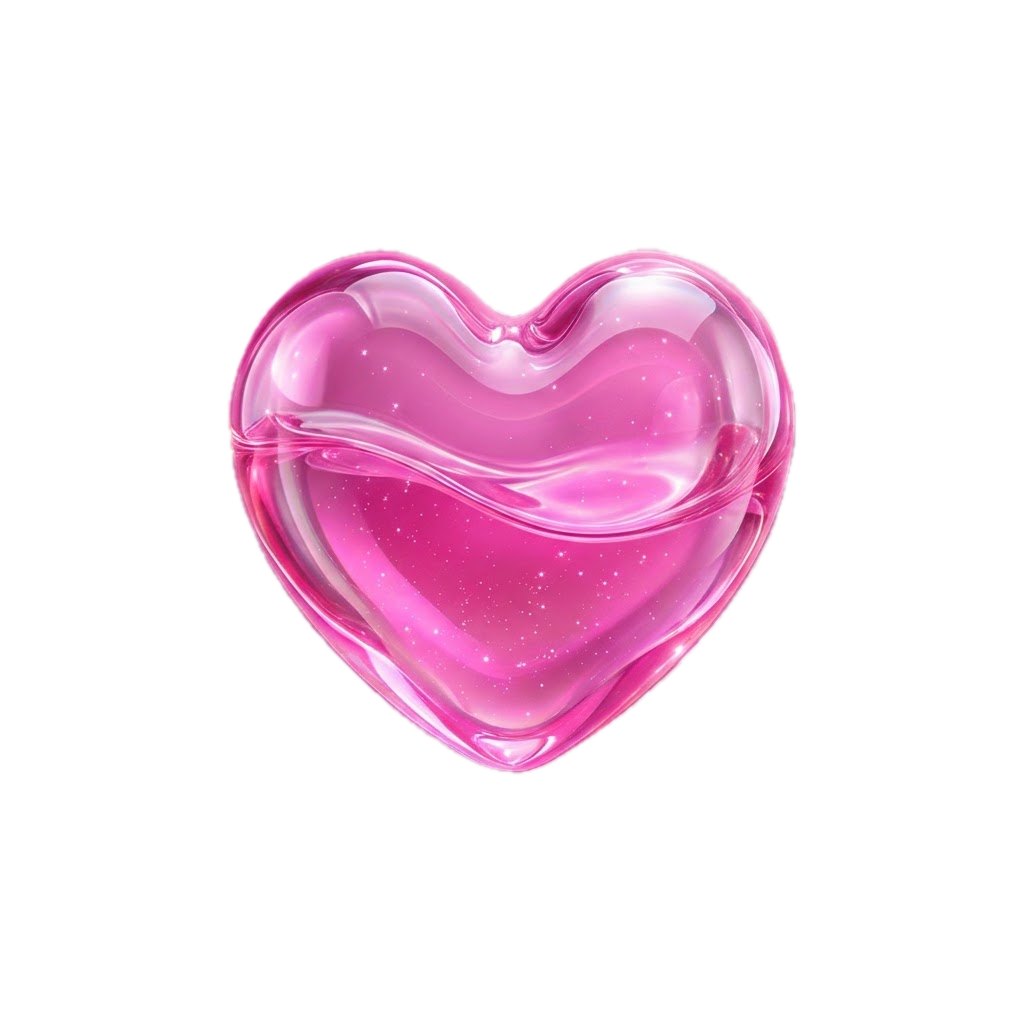
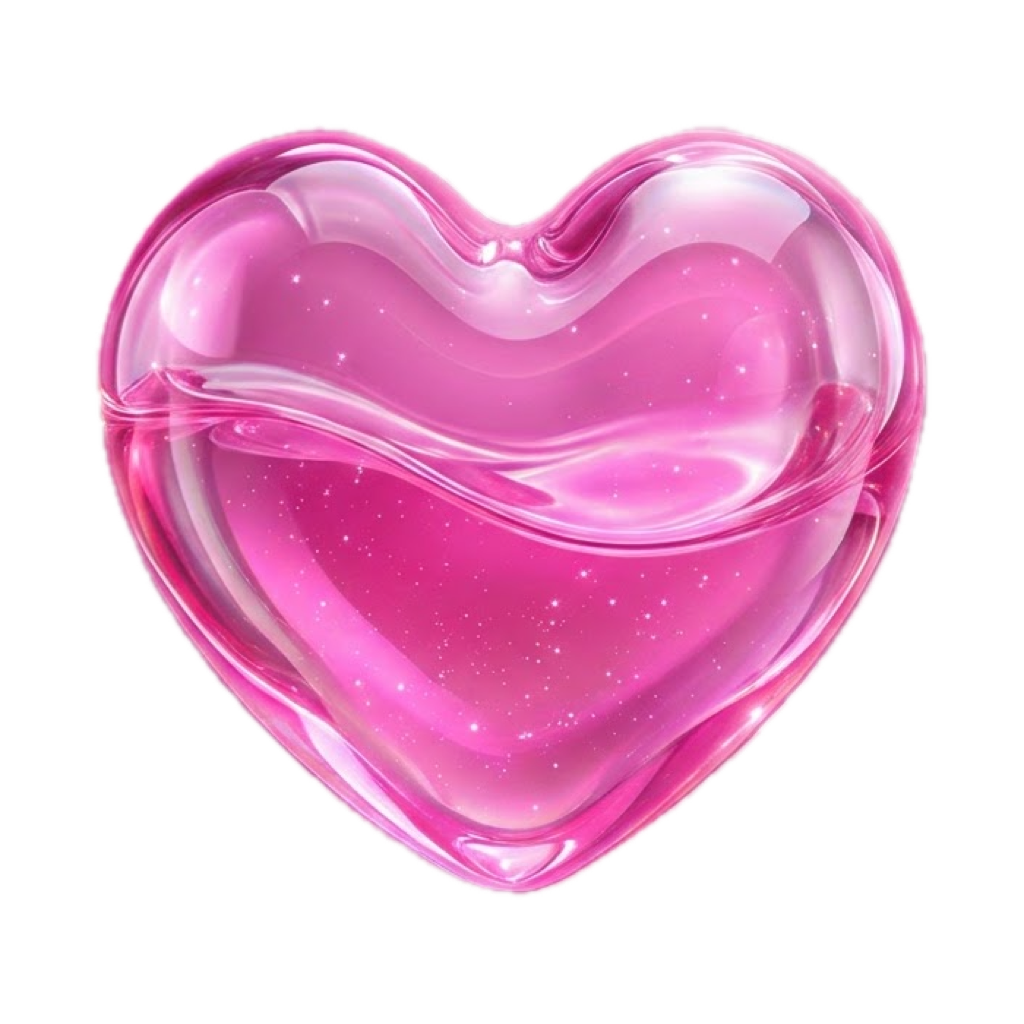
iPhone ve PWA ikonundaki kalp boyutu büyütüldü

diff --git a/app/manifest.ts b/app/manifest.ts
@@ -12,8 +12,8 @@ export default function manifest(): MetadataRoute.Manifest {
     theme_color: '#1c1c1e',
     lang: 'tr',
     icons: [
-      { src: '/icon-512-v2.png', sizes: '512x512', type: 'image/png', purpose: 'any' },
-      { src: '/icon-512-v2.png', sizes: '512x512', type: 'image/png', purpose: 'maskable' },
+      { src: '/icon-512-v3.png', sizes: '512x512', type: 'image/png', purpose: 'any' },
+      { src: '/icon-512-v3.png', sizes: '512x512', type: 'image/png', purpose: 'maskable' },
     ],
   }
 }

diff --git a/public/sw.js b/public/sw.js
@@ -1,4 +1,4 @@
-const CACHE = 'iyi-ki-dogdun-v2'
+const CACHE = 'iyi-ki-dogdun-v3'
 const PRECACHE = ['/']
 
 self.addEventListener('install', (event) => {
@@ -48,6 +48,7 @@ self.addEventListener('fetch', (event) => {
 
   // İkon ve manifest gibi dosyalarda her zaman güncel dosyayı al
   if (
+    request.url.endsWith('/icon-512-v3.png') ||
     request.url.endsWith('/icon-512-v2.png') ||
     request.url.endsWith('/apple-icon.png') ||
     request.url.includes('/manifest')

diff --git a/app/layout.tsx b/app/layout.tsx
@@ -22,8 +22,8 @@ export const metadata: Metadata = {
     statusBarStyle: 'default',
   },
   icons: {
-    icon: '/icon-512-v2.png',
-    apple: '/icon-512-v2.png',
+    icon: '/icon-512-v3.png',
+    apple: '/icon-512-v3.png',
   },
 }
 
